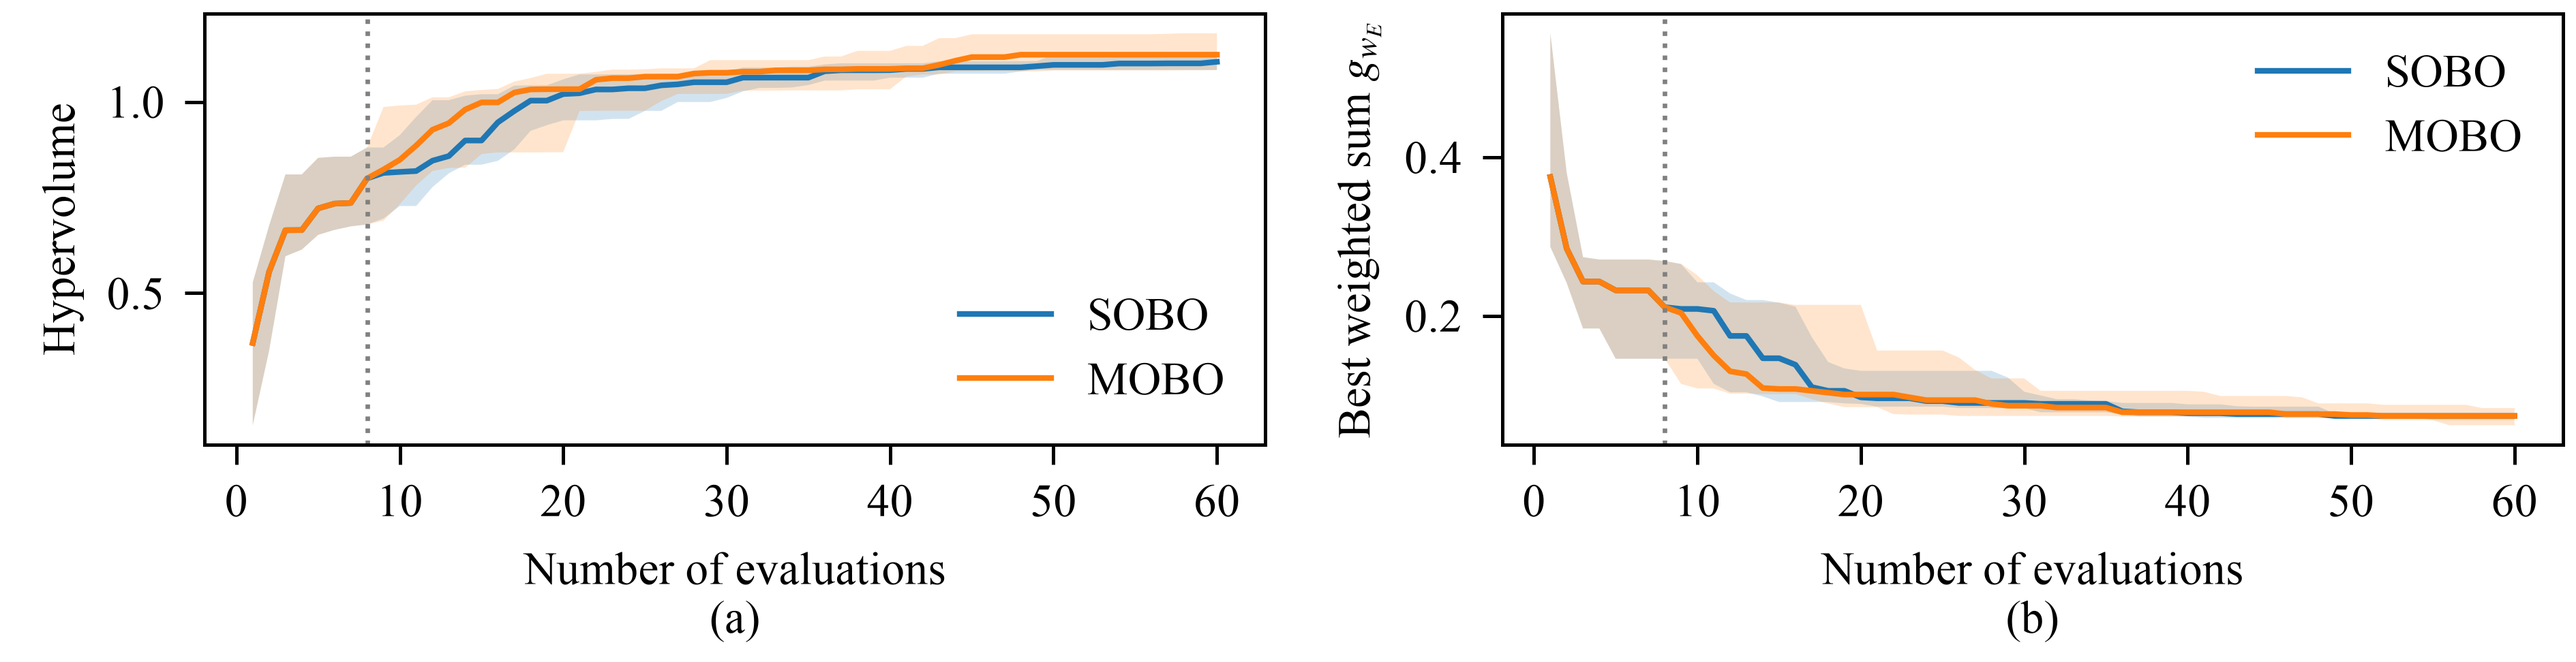
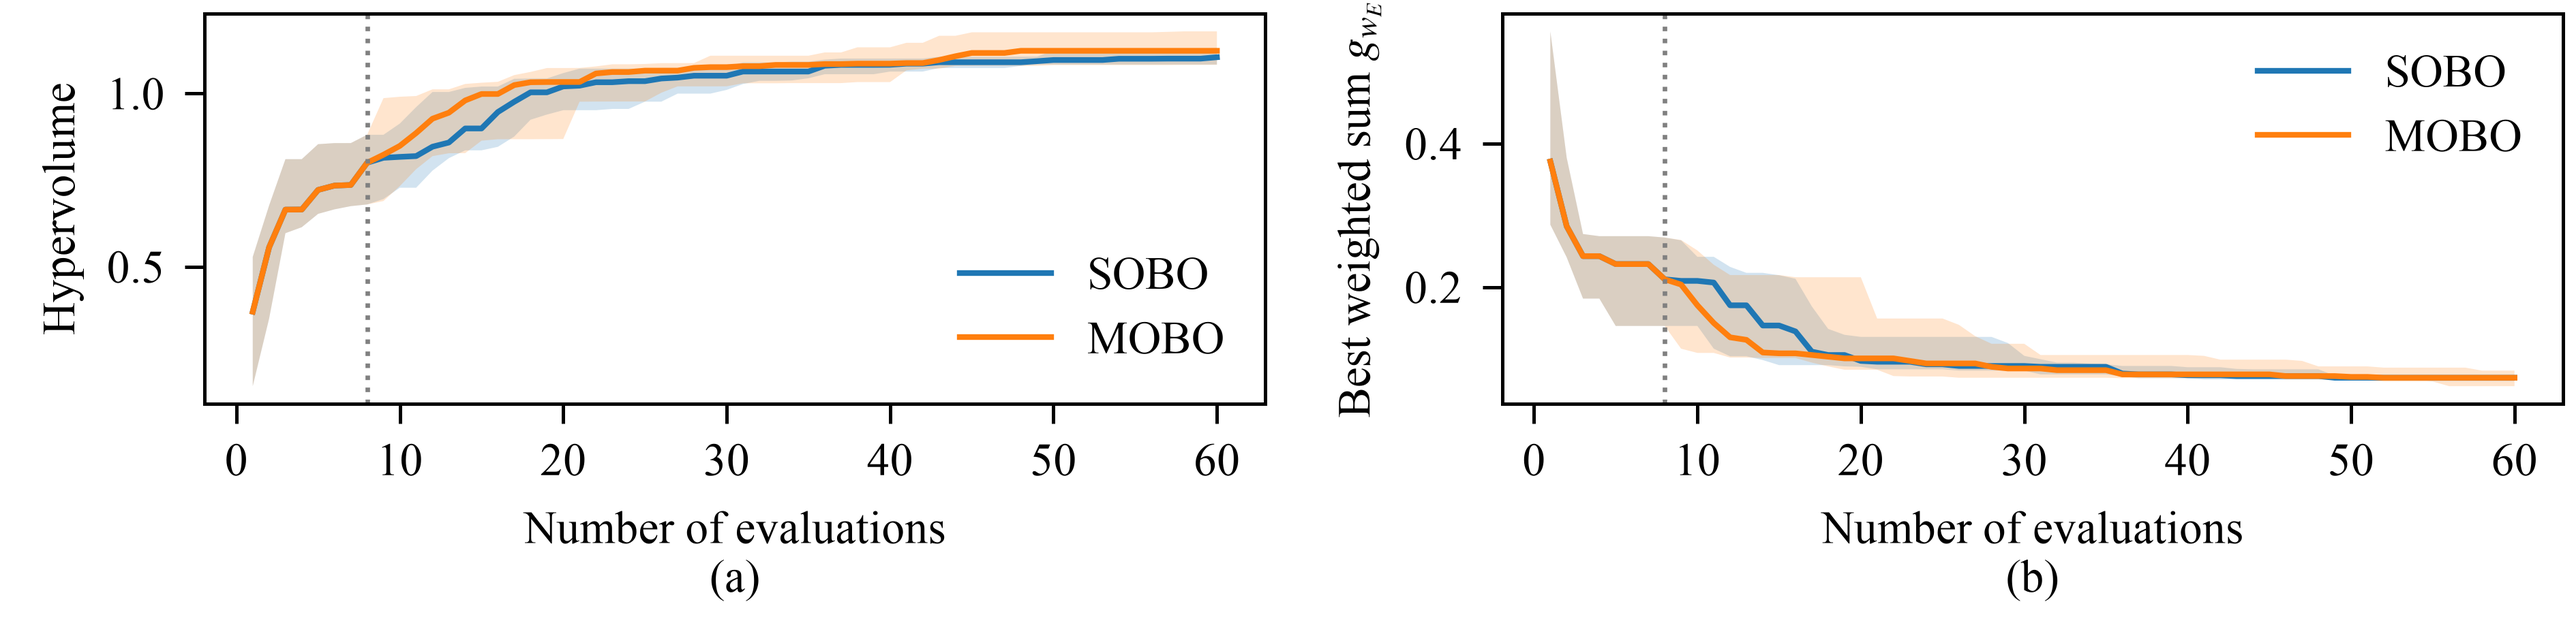
Report the voting behavior of the two selected subgroups
07_decision_analysis.py now lists the share of ties and of 0.5 scores in
each SOBO subgroup and the decisive outcomes behind the minority's scores:
the small subgroup consists of raters who declare ties in 96.9% of their
votes. Figure 2 is drawn slightly shorter.

diff --git a/07_decision_analysis.py b/07_decision_analysis.py
@@ -19,7 +19,7 @@ from scipy import stats
 from sklearn.metrics import adjusted_rand_score
 
 import config
-from src.data import load_instance
+from src.data import _long_outcomes, load_battles, load_instance
 from src.metrics import compromise_index, nondominated_mask
 from src.scofcm import pipeline_from_instance, scalarize
 
@@ -130,6 +130,27 @@ def main():
            f"weights: {sorted(t['weights_SOBO'].unique().tolist())}",
            f"- Kendall tau between the two SOBO subgroups (real votes): {rng('tau_subgroups_SOBO')}",
            f"- Kendall tau between the SOBO consensus and the flat ranking: {rng('tau_consensus_vs_flat_SOBO')}"]
+
+    # ---- voting behavior of the two SOBO subgroups (seed 1; all seeds give the same split) ------
+    r_s = dec[seeds[0]][0]
+    small = np.argmin(np.bincount(r_s.labels))
+    group = dict(zip(inst["raters"], np.where(r_s.labels == small, "minority", "majority")))
+    battles = load_battles()
+    battles = battles[battles["judge_hash"].isin(group)]
+    battles["group"] = battles["judge_hash"].map(group)
+    tie_share = battles["winner"].str.startswith("tie").groupby(battles["group"]).mean()
+    long = _long_outcomes(battles)
+    long = long[long["model"].isin(set(inst["models"]))]
+    long["group"] = long["rater"].map(group)
+    decisive = long[(long["group"] == "minority") & (long["gamma"] != 0.5)]
+    half = {g: float(np.mean(np.isclose(F[(r_s.labels == small) == (g == "minority")][
+        observed[(r_s.labels == small) == (g == "minority")]], 0.5))) for g in ("majority", "minority")}
+    md += ["\n## Voting behavior of the two SOBO subgroups",
+           f"- Share of ties among all votes: majority {100 * tie_share['majority']:.1f}%, minority {100 * tie_share['minority']:.1f}%",
+           f"- Share of observed scores equal to 0.5: majority {100 * half['majority']:.1f}%, minority {100 * half['minority']:.1f}%",
+           f"- Decisive outcomes behind the minority's scores on the 30 models: {len(decisive)} of "
+           f"{int((long['group'] == 'minority').sum())}, from {decisive['rater'].nunique()} of {int(np.sum(r_s.labels == small))} raters, "
+           f"on {decisive['model'].nunique()} models"]
 
     # ---- effect of mu at the selected zeta ------------------------------------------------------
     zeta_star = float(t["zeta_SOBO"].median())

diff --git a/03_analyze.py b/03_analyze.py
@@ -92,7 +92,7 @@ def rq1(df, seeds, out):
     ])
     summary.to_csv(out / "tables" / "rq1_summary.csv", index=False)
 
-    fig, axes = plt.subplots(1, 2, figsize=(TEXT_WIDTH, 1.62))
+    fig, axes = plt.subplots(1, 2, figsize=(TEXT_WIDTH, 1.52))
     for ax, key, ylabel, tag in ((axes[0], "hv", "Hypervolume", "(a)"),
                                  (axes[1], "g", "Best weighted sum $g_{w_E}$", "(b)")):
         for run, label in (("SOBO_E", "SOBO"), ("MOBO", "MOBO")):

diff --git a/results/analysis/decisions.md b/results/analysis/decisions.md
@@ -10,6 +10,11 @@
 - Kendall tau between the two SOBO subgroups (real votes): -0.195 to -0.195
 - Kendall tau between the SOBO consensus and the flat ranking: 1.000 to 1.000
 
+## Voting behavior of the two SOBO subgroups
+- Share of ties among all votes: majority 41.5%, minority 96.9%
+- Share of observed scores equal to 0.5: majority 27.6%, minority 95.5%
+- Decisive outcomes behind the minority's scores on the 30 models: 51 of 2153, from 24 of 75 raters, on 22 models
+
 ## Effect of mu at zeta = 0.484, kappa = 0.5
 - mu = 0: c* = 2, weights 0.935/0.065, f2 = 0.02882
 - mu = 1: c* = 2, weights 0.930/0.070, f2 = 0.02882
